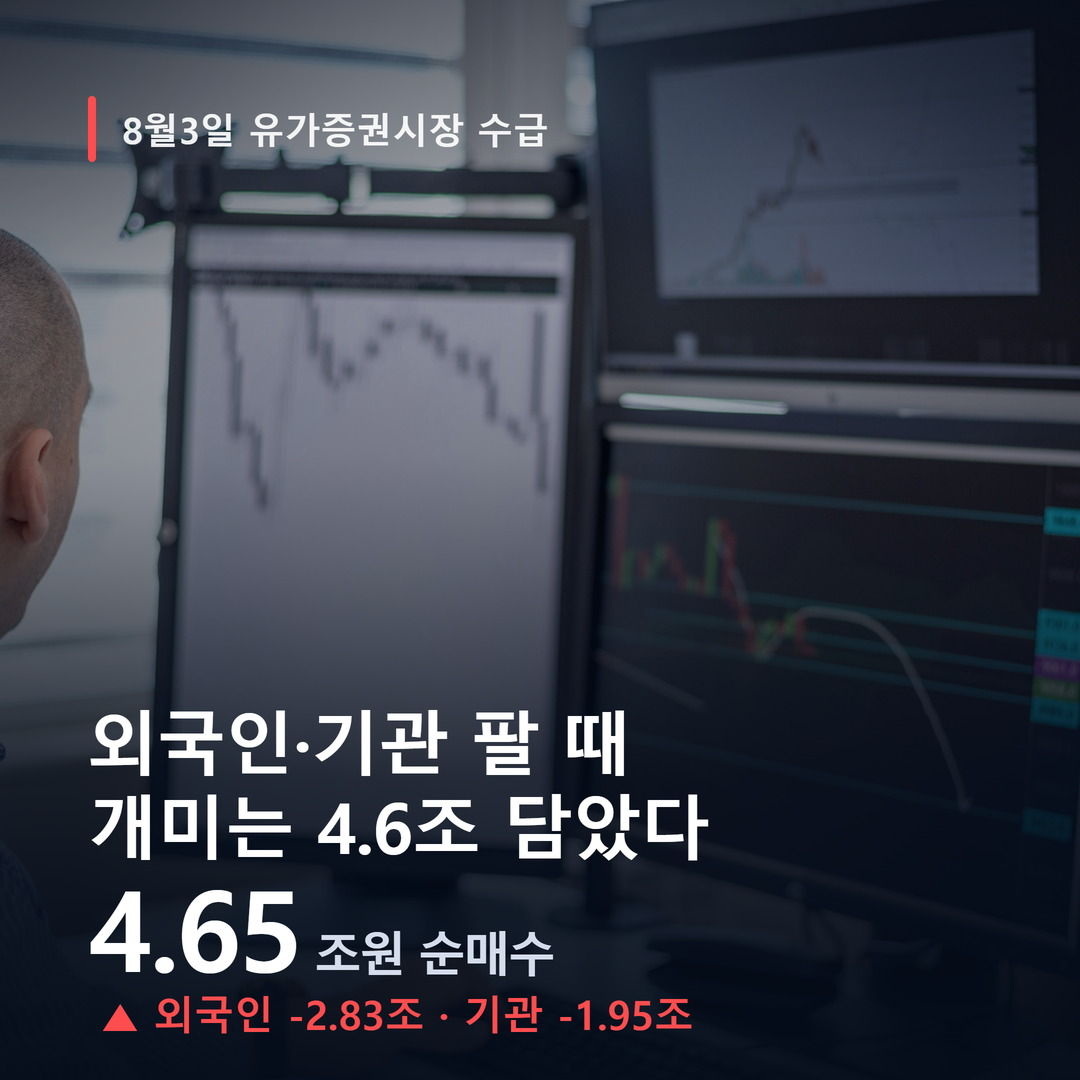
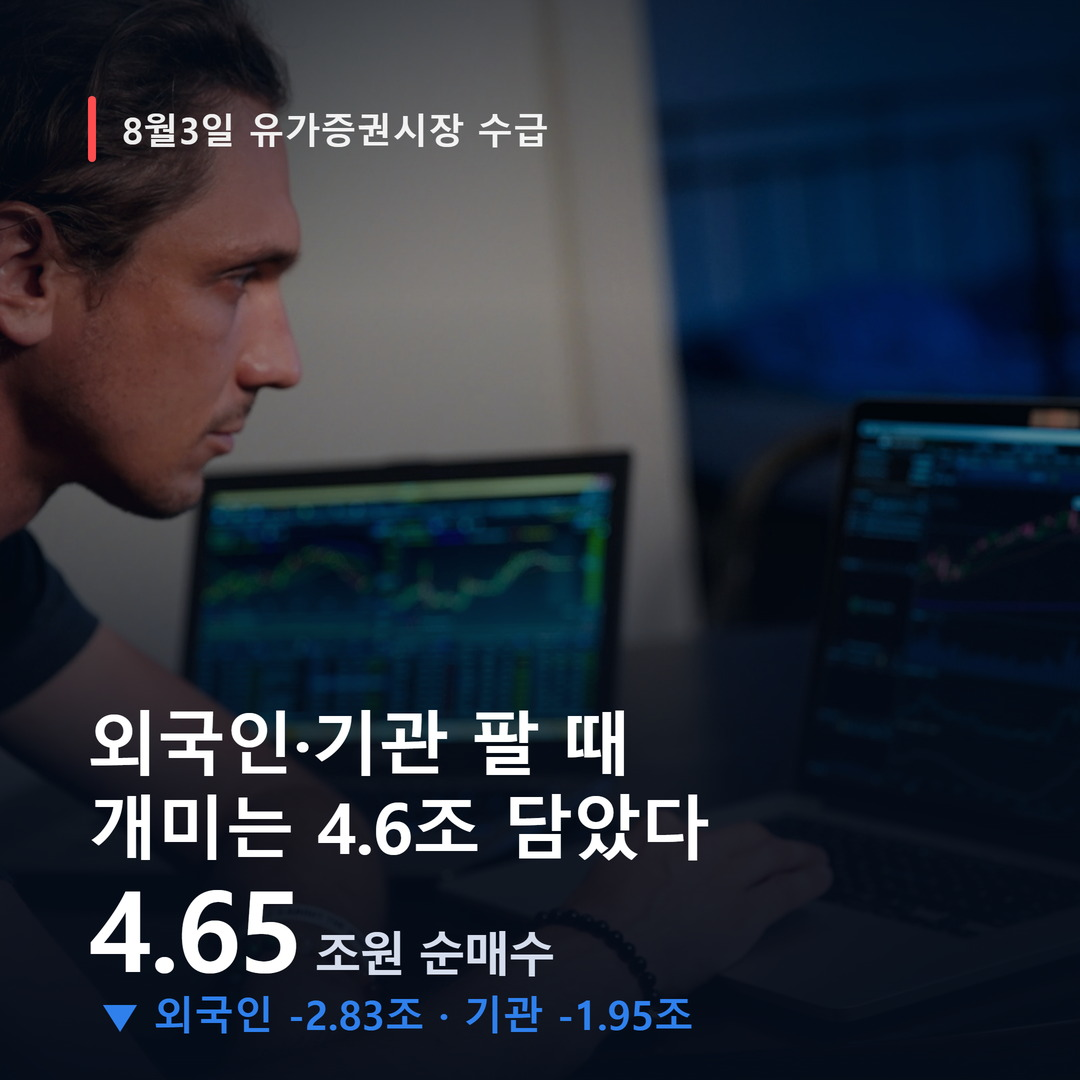
발행 품질 셀프 점검 — 조판 3건 + 카드 방향 오류 + 분량 미달 감지
실제 발행물 8건의 본문과 이미지를 직접 열어 확인하고 나온 것들.

[본문 조판]
1) 해시태그가 한 줄에 하나씩(8줄) 나가고 있었다. 네이버에서는 각각이 문단이
   되어 화면 한 바닥을 태그가 차지하고 스팸처럼 보인다 → 한 줄로 합친다.
2) '경제 노트' 헤딩 앞에 빈 줄이 2개씩 들어갔다(8건 전부). 블록마다 SPACER를
   붙이다 보니 앞 블록이 이미 SPACER로 끝난 자리에 또 붙은 것.
   조립 순서를 바꿔도 재발하지 않게 마지막에 연속 SPACER를 한 번에 정리한다.
3) 이미지가 본문 앞 2/3에 몰렸다. 전체를 (n+1)등분하고 마지막만 끝으로 밀어서,
   4번째와 5번째 사이가 통째로 비었다(구간 글자수 최대 3배 편차).
   n등분으로 바꿔 편차가 평균 2.0배로 줄었다.

[카드]
4) '외국인 -2.83조 · 기관 -1.95조'(순매도)에 빨간 상승 화살표가 찍혔다.
   기사 JSON의 direction 을 사람이 손으로 쓰다 보니 문구와 어긋난 것.
   → infer_direction(): 보는 사람은 문구를 읽으므로 문구에 하락 신호가 있으면
     그쪽을 따른다. 판단이 애매하면(둘 다 있거나 없음) 지정값을 존중한다.

[분량]
5) 8건 전부 1,294~1,369자로 규격(1,400~1,600)에 미달인데 아무도 안 보고 있었다.
   짧으면 검색 노출·완독 깊이에서 손해다. build_report 의 problems 로 올려
   눈에 띄게 했다(±50 여유를 둬 사소한 편차로 재작성이 반복되지 않게).
   현재 8건 중 4건이 이 검사에 걸린다 — 다음 루틴부터 보강될 것.

diff --git a/_engine/common_utils.py b/_engine/common_utils.py
@@ -111,6 +111,25 @@ CARD_ACCENT_DOWN = "#2f80ed"    # 하락 = 파랑
 CARD_GOLD = "#ffc83d"
 
 
+_NEG_RE = re.compile(r"-\s*\d|▼|하락|급락|하회|순매도|감소|축소|마이너스")
+_POS_RE = re.compile(r"\+\s*\d|▲|상승|급등|상회|순매수|증가|확대")
+
+
+def infer_direction(delta, direction="up"):
+    """delta 문구를 보고 화살표 방향을 정한다. 문구가 항상 진실이다.
+
+    기사 JSON의 direction 필드는 사람이 손으로 쓰다 보니 문구와 어긋난다.
+    실제로 '외국인 -2.83조 · 기관 -1.95조'(순매도)에 direction="up"이 붙어
+    빨간 ▲ 위에 음수가 찍혔다(실측 2026-08-04). 보는 사람은 문구를 읽으므로
+    문구에 하락 신호가 있으면 그쪽을 따른다."""
+    text = str(delta or "")
+    if _NEG_RE.search(text) and not _POS_RE.search(text):
+        return "down"
+    if _POS_RE.search(text) and not _NEG_RE.search(text):
+        return "up"
+    return direction        # 판단 불가(둘 다 있거나 없음) — 작성자 지정을 존중
+
+
 def build_number_card_svg(eyebrow, number, number_unit, headline_lines,
                           delta="", direction="up", footnote="", logo_path=None):
     """큰 숫자 하나를 주인공으로 세운 정사각 카드.
@@ -122,6 +141,7 @@ def build_number_card_svg(eyebrow, number, number_unit, headline_lines,
     delta          : 증감 표기 (예: 전년 대비 +62.8%)
     direction      : up = 빨강, down = 파랑
     """
+    direction = infer_direction(delta, direction)   # 문구와 어긋나면 문구를 따른다
     accent = CARD_ACCENT_UP if direction == "up" else CARD_ACCENT_DOWN
     arrow = "▲" if direction == "up" else "▼"
     # 나머지 3종 카드와 같은 배경을 써야 한 세트로 보인다
@@ -785,7 +805,9 @@ def build_photo_card_svg(photo_path, eyebrow, headline_lines, credit="",
                  f'<tspan font-size="{unit_fs}" fill="#d5dded" dx="{gap}">'
                  f'{escape_html(number_unit)}</tspan></text>')
         if delta:
-            arrow = "▲" if direction == "up" else "▼"
+            dr = infer_direction(delta, direction)
+            arrow = "▲" if dr == "up" else "▼"
+            accent = CARD_ACCENT_UP if dr == "up" else CARD_ACCENT_DOWN
             p.append(f'<text x="{88 + 12}" y="{y+58}" font-size="40" font-weight="700" '
                      f'fill="{accent}">{arrow} {escape_html(delta)}</text>')
 
